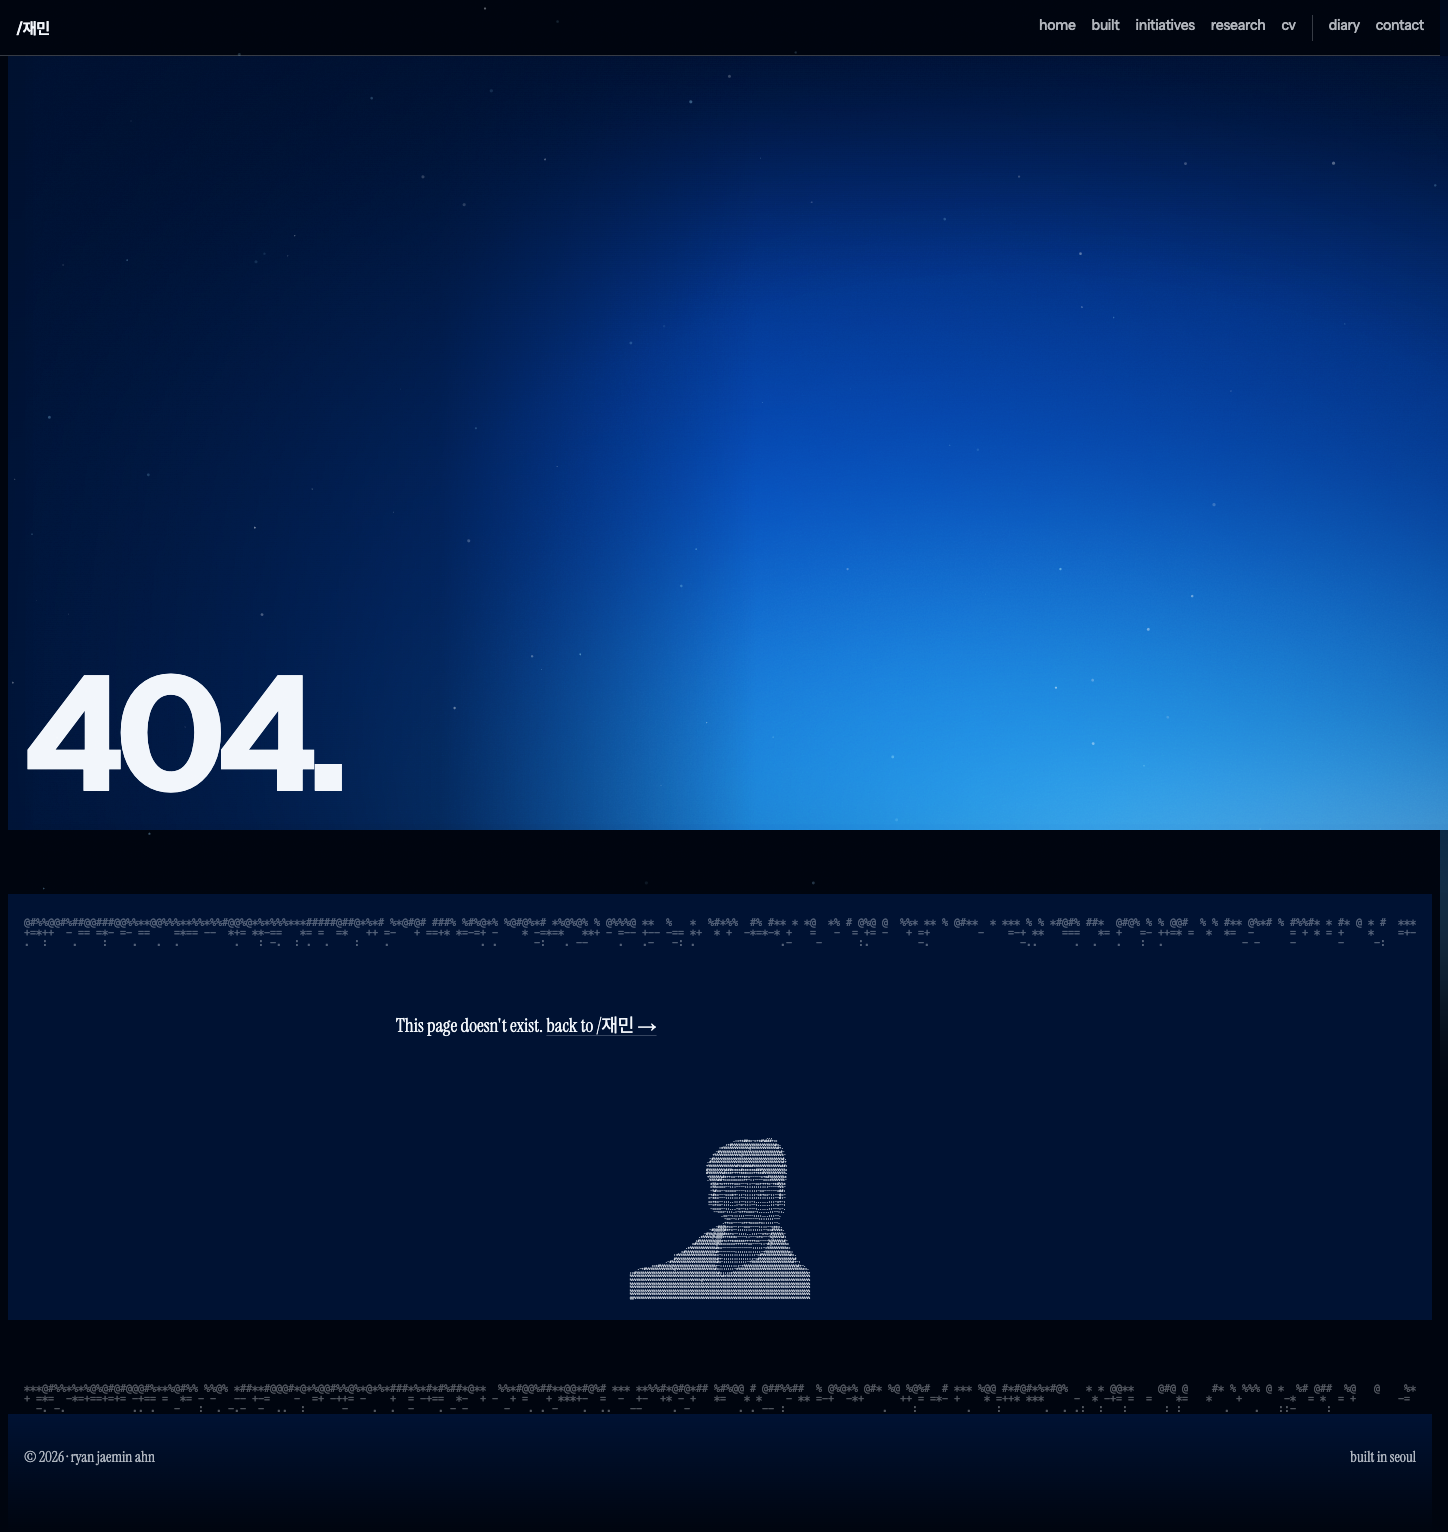
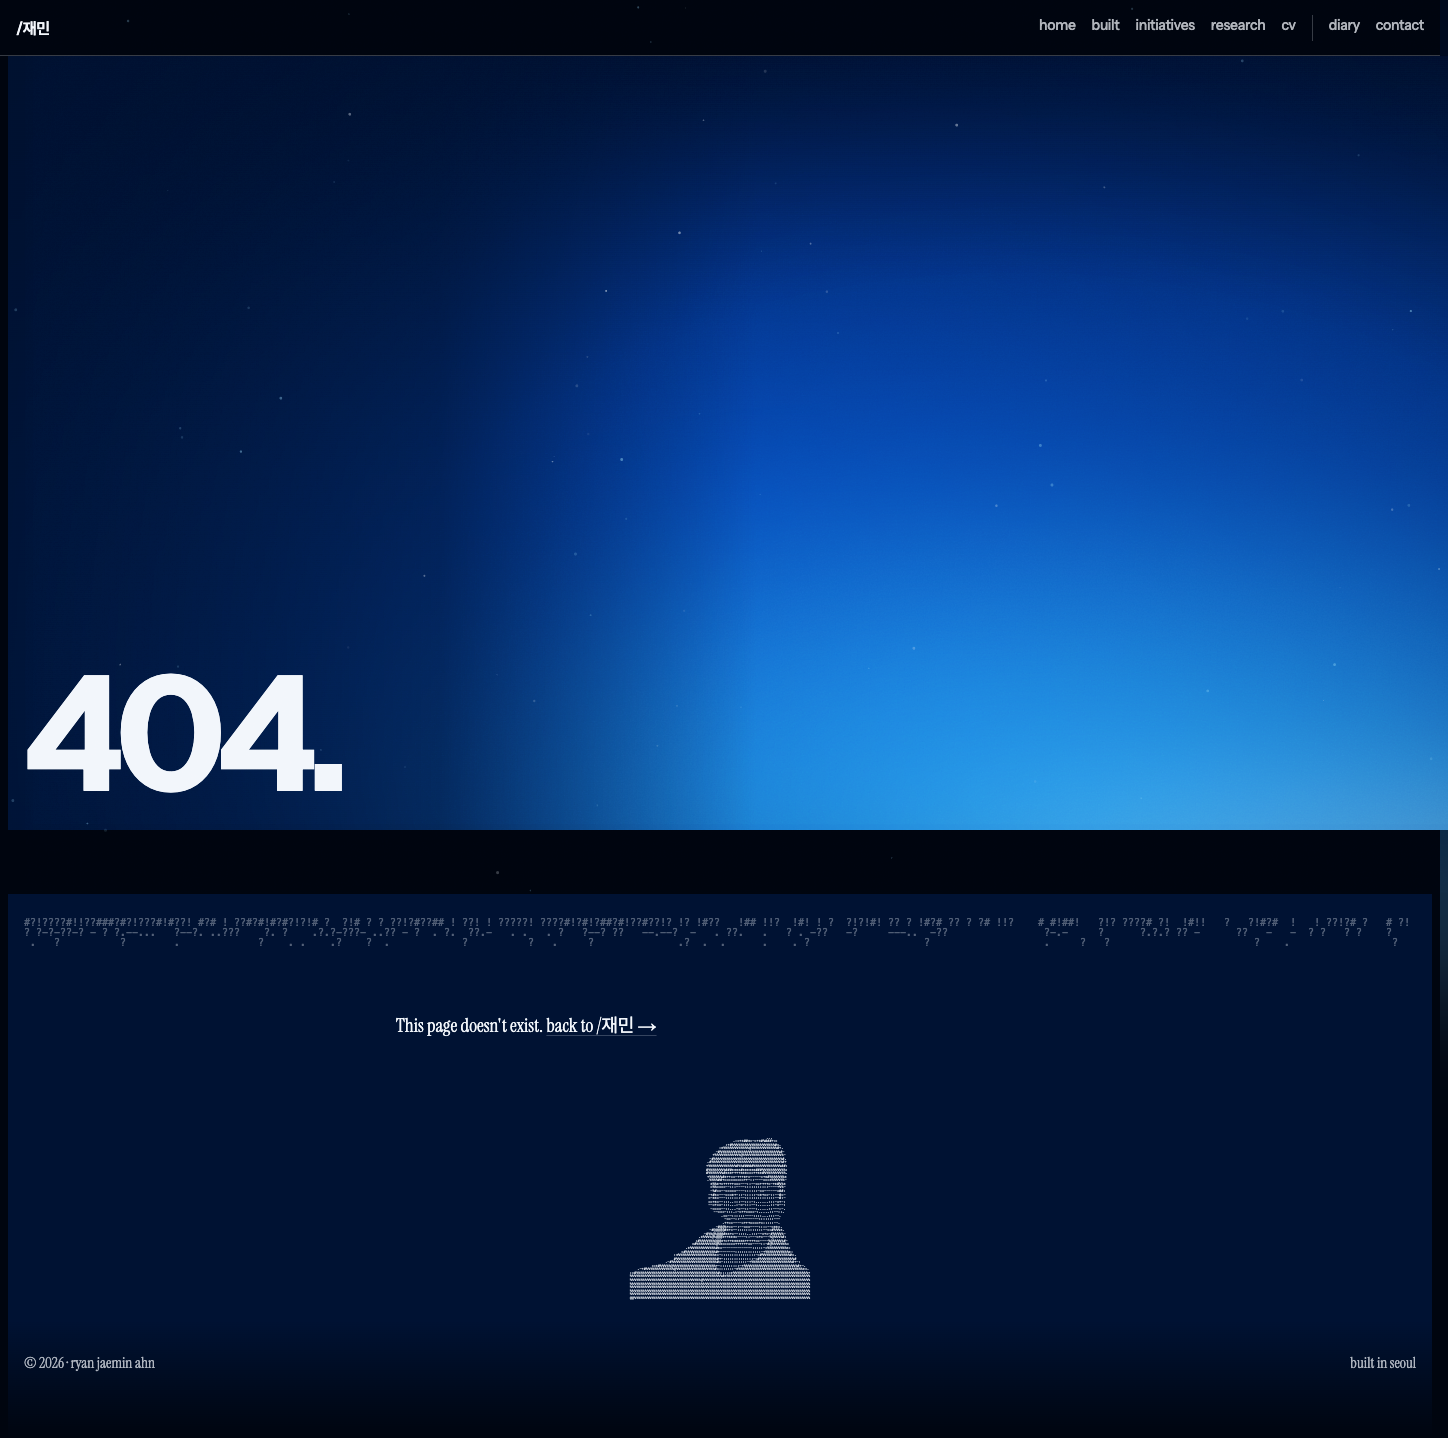
Update migration notes and review screenshots for section textures

diff --git a/MIGRATION_NOTES.md b/MIGRATION_NOTES.md
@@ -195,3 +195,11 @@ snow).
   ASCII is drawn on canvas so it isn't read as tiny text by screen
   readers or audits. Reduced motion: no particles, no animation.
 - Lighthouse after: home 99/100/100/100, contact 100/100/100/100.
+- **Per-section textures (2026-09-24).** Each section's dither, particles
+  and ASCII now echo its subject (table in `assets/js/texture.js`,
+  `SECTIONS`): built — line screen, lockstep lattice, repeated `[##]`;
+  initiatives — halftone, constellation; research — stipple, drifting
+  cells, `ACGT`; cv — constellation, `01`; contact — halftone, ripples;
+  diary — stipple, snow. Each reading panel closes with an ASCII echo of
+  its plate photo. The strip floating above the footer is gone.
+  Contrast check 0 failures; Lighthouse a11y/BP/SEO 100.
